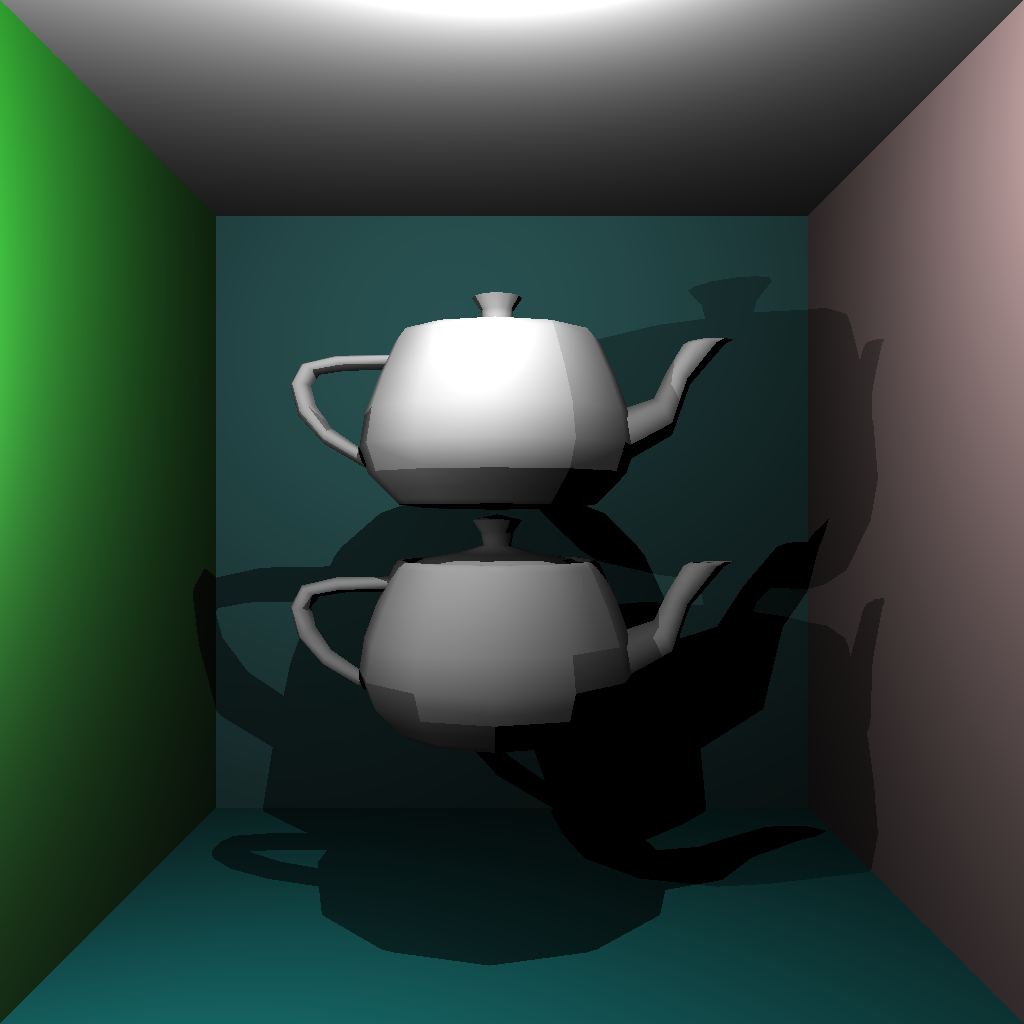
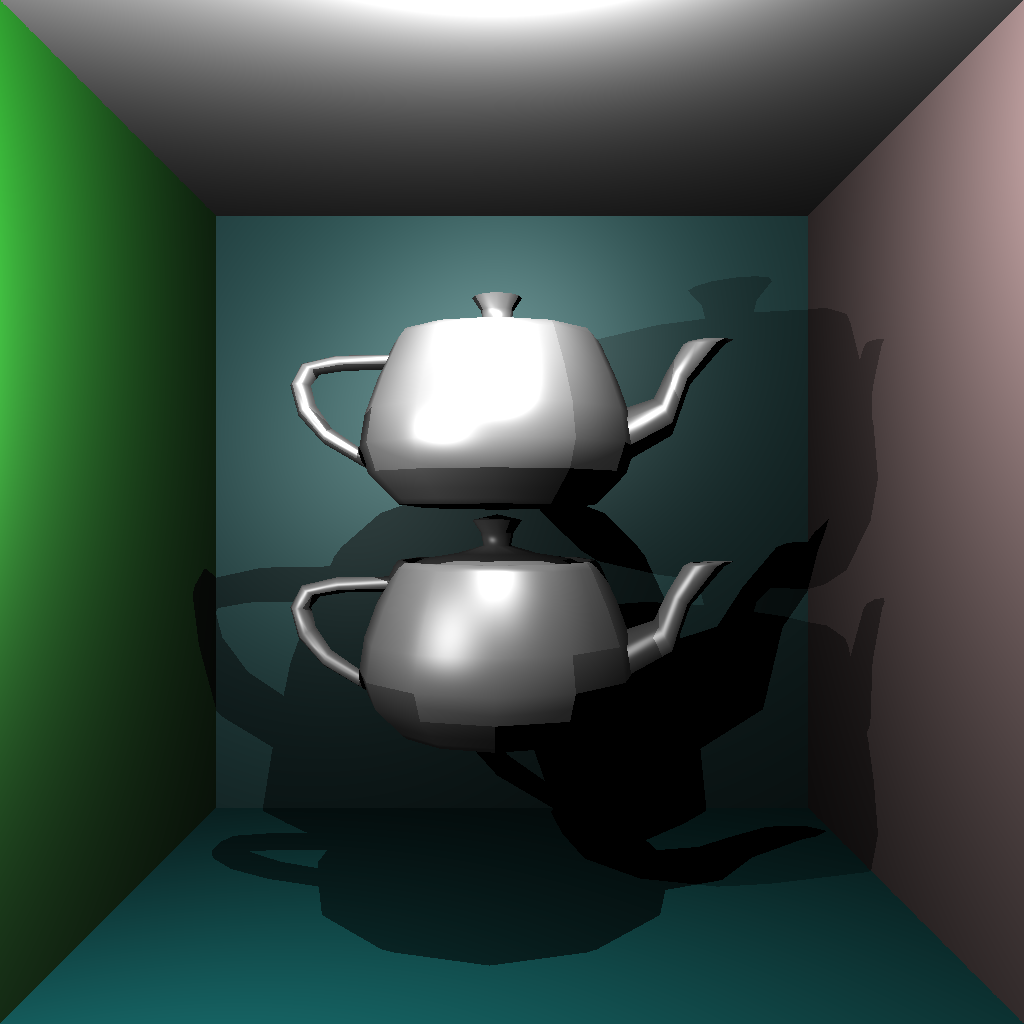
-*-ray-*- set assignments default, refraction test

diff --git a/ray tracer/src/rt/RefractiveIntegrator.java b/ray tracer/src/rt/RefractiveIntegrator.java
@@ -41,7 +41,57 @@ public class RefractiveIntegrator implements IntegratorFactory {
 	}
 
 	private Ray refractionRay(Intersectable scene, HitRecord oldHit, Ray oldRay) {
-		// do some stuff
-		return null;
+		if (oldHit.getMaterial().type != "refractive")
+			return oldRay;
+		Vector3f v = new Vector3f(oldHit.getRayDir());
+		v.negate();
+		Vector3f normal = new Vector3f(oldHit.getNormal());
+		float theta1 = normal.dot(v);
+		float n1 = 1.00029f;
+		float n2 = ((RefractiveMaterial) oldHit.getMaterial()).getRefractiveIndex();
+
+		if (theta1 < 0) { // outgoing
+			normal.negate();
+			theta1 = normal.dot(v);
+			float tmp = n1;
+			n1 = n2;
+			n2 = tmp;
+		}
+
+		float criticalAngle = n2 / n1;
+		float theta2 = (float) (Math.asin(theta1 * (n1 / n2)));
+
+		if (theta1 > criticalAngle) {
+			Ray reflectedRay = reflectionRay(scene, oldHit, oldRay);
+			return reflectedRay;
+		}
+
+		v = new Vector3f(oldHit.getRayDir());
+		v.scale(n1 / n2);
+		Vector3f r = new Vector3f(oldHit.getNormal());
+		r.scale((n1 / n2) * (float) Math.cos(theta1) - (float) Math.cos(theta2));
+		r.add(v);
+		r.normalize();
+
+		Vector3f pos = new Vector3f(oldHit.getIntersectionPoint());
+		Vector3f bias = new Vector3f(oldHit.getRayDir());
+		bias.scale(0.00001f);
+		pos.add(bias);
+		return new Ray(r, pos);
+	}
+
+	private Ray reflectionRay(Intersectable scene, HitRecord oldHit, Ray oldRay) {
+		Vector3f normal = new Vector3f(oldHit.getNormal());
+		float dDotN = oldRay.getDirection().dot(normal);
+		Vector3f twodnn = new Vector3f(oldHit.getNormal());
+		twodnn.scale(dDotN * 2);
+		Vector3f refl = new Vector3f(oldRay.getDirection());
+		refl.sub(twodnn);
+		Vector3f bias = new Vector3f(oldHit.getRayDir());
+		bias.negate();
+		bias.scale(0.00001f);
+		Vector3f intPoint = new Vector3f(oldHit.getIntersectionPoint());
+		intPoint.add(bias);
+		return new Ray(refl, intPoint);
 	}
 }

diff --git a/ray tracer/src/scenes/Assignment1_Basic.java b/ray tracer/src/scenes/Assignment1_Basic.java
@@ -2,8 +2,8 @@ package scenes;
 
 import javax.vecmath.Vector3f;
 
+import rt.BlinnMaterial;
 import rt.Camera;
-import rt.DiffuseMaterial;
 import rt.Film;
 import rt.IntegratorFactory;
 import rt.Intersectable;
@@ -56,42 +56,42 @@ public class Assignment1_Basic implements Scene {
 		float radius = 0.2f;
 		Sphere sphere = new Sphere(center, radius);
 		Spectrum kd = new Spectrum(0.8f, 0.8f, 0.8f);
-		sphere.setMaterial(new DiffuseMaterial(kd));
+		sphere.setMaterial(new BlinnMaterial(kd));
 		objects.add(sphere);
 
 		Vector3f normal = new Vector3f(0.f, 1.f, 0.f);
 		float d = 1.f;
 		Plane plane = new Plane(normal, d);
 		kd = new Spectrum(0.f, 0.8f, 0.8f);
-		plane.setMaterial(new DiffuseMaterial(kd));
+		plane.setMaterial(new BlinnMaterial(kd));
 		objects.add(plane);
 
 		normal = new Vector3f(0.f, 0.f, 1.f);
 		d = 1.f;
 		plane = new Plane(normal, d);
 		kd = new Spectrum(0.3f, 0.8f, 0.8f);
-		plane.setMaterial(new DiffuseMaterial(kd));
+		plane.setMaterial(new BlinnMaterial(kd));
 		objects.add(plane);
 
 		normal = new Vector3f(-1.f, 0.f, 0.f);
 		d = 1.f;
 		plane = new Plane(normal, d);
 		kd = new Spectrum(1.f, 0.8f, 0.8f);
-		plane.setMaterial(new DiffuseMaterial(kd));
+		plane.setMaterial(new BlinnMaterial(kd));
 		objects.add(plane);
 
 		normal = new Vector3f(1.f, 0.f, 0.f);
 		d = 1.f;
 		plane = new Plane(normal, d);
 		kd = new Spectrum(0.f, 0.8f, 0.0f);
-		plane.setMaterial(new DiffuseMaterial(kd));
+		plane.setMaterial(new BlinnMaterial(kd));
 		objects.add(plane);
 
 		normal = new Vector3f(0.f, -1.f, 0.f);
 		d = 1.f;
 		plane = new Plane(normal, d);
 		kd = new Spectrum(0.8f, 0.8f, 0.8f);
-		plane.setMaterial(new DiffuseMaterial(kd));
+		plane.setMaterial(new BlinnMaterial(kd));
 		objects.add(plane);
 
 		Vector3f position = new Vector3f(0.f, 0.8f, 0.8f);

diff --git a/ray tracer/src/scenes/Assignment1_Instancing.java b/ray tracer/src/scenes/Assignment1_Instancing.java
@@ -6,8 +6,8 @@ import java.io.IOException;
 import javax.vecmath.Matrix4f;
 import javax.vecmath.Vector3f;
 
+import rt.BlinnMaterial;
 import rt.Camera;
-import rt.DiffuseMaterial;
 import rt.Film;
 import rt.Instance;
 import rt.IntegratorFactory;
@@ -59,23 +59,23 @@ public class Assignment1_Instancing implements Scene {
 
 		// Box
 		Plane plane = new Plane(new Vector3f(0.f, 1.f, 0.f), 1.f);
-		plane.setMaterial(new DiffuseMaterial(new Spectrum(0.f, 0.8f, 0.8f)));
+		plane.setMaterial(new BlinnMaterial(new Spectrum(0.f, 0.8f, 0.8f)));
 		objects.add(plane);
 
 		plane = new Plane(new Vector3f(0.f, 0.f, 1.f), 1.f);
-		plane.setMaterial(new DiffuseMaterial(new Spectrum(0.3f, 0.8f, 0.8f)));
+		plane.setMaterial(new BlinnMaterial(new Spectrum(0.3f, 0.8f, 0.8f)));
 		objects.add(plane);
 
 		plane = new Plane(new Vector3f(-1.f, 0.f, 0.f), 1.f);
-		plane.setMaterial(new DiffuseMaterial(new Spectrum(1.f, 0.8f, 0.8f)));
+		plane.setMaterial(new BlinnMaterial(new Spectrum(1.f, 0.8f, 0.8f)));
 		objects.add(plane);
 
 		plane = new Plane(new Vector3f(1.f, 0.f, 0.f), 1.f);
-		plane.setMaterial(new DiffuseMaterial(new Spectrum(0.f, 0.8f, 0.0f)));
+		plane.setMaterial(new BlinnMaterial(new Spectrum(0.f, 0.8f, 0.0f)));
 		objects.add(plane);
 
 		plane = new Plane(new Vector3f(0.f, -1.f, 0.f), 1.f);
-		plane.setMaterial(new DiffuseMaterial(new Spectrum(0.8f, 0.8f, 0.8f)));
+		plane.setMaterial(new BlinnMaterial(new Spectrum(0.8f, 0.8f, 0.8f)));
 		objects.add(plane);
 
 		// Add objects
@@ -88,7 +88,7 @@ public class Assignment1_Instancing implements Scene {
 			return;
 		}
 
-		mesh.setMaterial(new DiffuseMaterial(new Spectrum(.5f, .5f, .5f)));
+		mesh.setMaterial(new BlinnMaterial(new Spectrum(.5f, .5f, .5f)));
 
 		Matrix4f t = new Matrix4f();
 		t.setIdentity();

diff --git a/ray tracer/src/scenes/Assignment1_Refractive.java b/ray tracer/src/scenes/Assignment1_Refractive.java
@@ -44,8 +44,8 @@ public class Assignment1_Refractive implements Scene {
 		Vector3f lookAt = new Vector3f(0.f, 0.f, 0.f);
 		Vector3f up = new Vector3f(0.f, 1.f, 0.f);
 		float fov = 60.f;
-		int width = 512;
-		int height = 512;
+		int width = 1024;
+		int height = 1024;
 		float aspect = (float) width / (float) height;
 		camera = new Camera(eye, lookAt, up, fov, aspect, width, height);
 		film = new Film(width, height);

diff --git a/ray tracer/src/rt/Mesh.java b/ray tracer/src/rt/Mesh.java
@@ -72,7 +72,7 @@ public class Mesh extends Aggregate implements Intersectable {
 		if (hit != null && this.material != null)
 			hit.setMaterial(material);
 		else if (hit != null && this.material == null)
-			hit.setMaterial(new DiffuseMaterial(new Spectrum(.6f, .6f, .6f)));
+			hit.setMaterial(new BlinnMaterial(new Spectrum(.6f, .6f, .6f)));
 		return hit;
 	}
 

diff --git a/ray tracer/src/rt/BlinnMaterial.java b/ray tracer/src/rt/BlinnMaterial.java
@@ -52,7 +52,6 @@ public class BlinnMaterial extends Material {
 		e.sub(hitPoint);
 		e.normalize();
 		Vector3f h = new Vector3f(L);
-		h.normalize();
 		h.add(e);
 		h.normalize();
 		float hDotN = (float) Math.pow(h.dot(normal), shininess);

diff --git a/ray tracer/src/rt/Main.java b/ray tracer/src/rt/Main.java
@@ -9,7 +9,7 @@ import scenes.Scene;
 
 public class Main {
 
-	private static int sceneNo = 4;
+	private static int sceneNo = 5;
 	private static int maxThreads = Runtime.getRuntime().availableProcessors();
 	private static Scene image;
 
